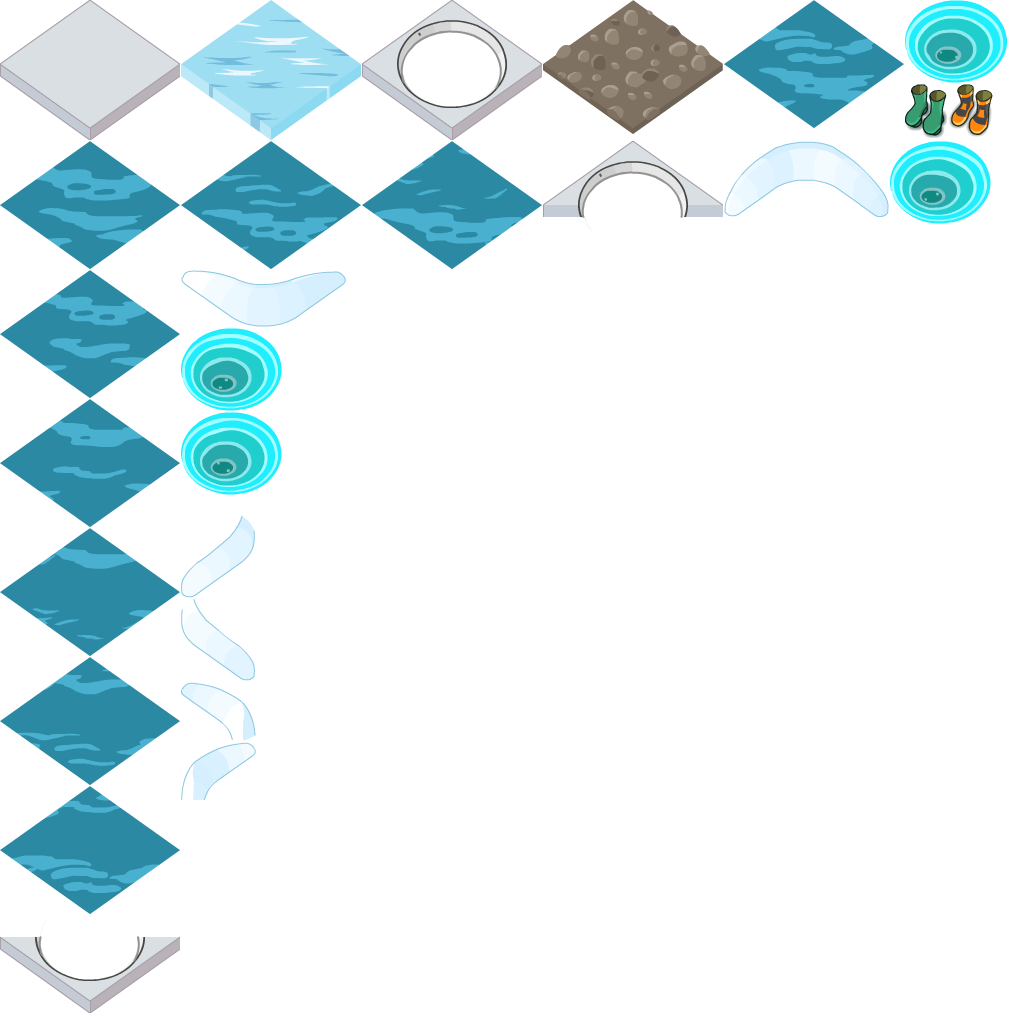
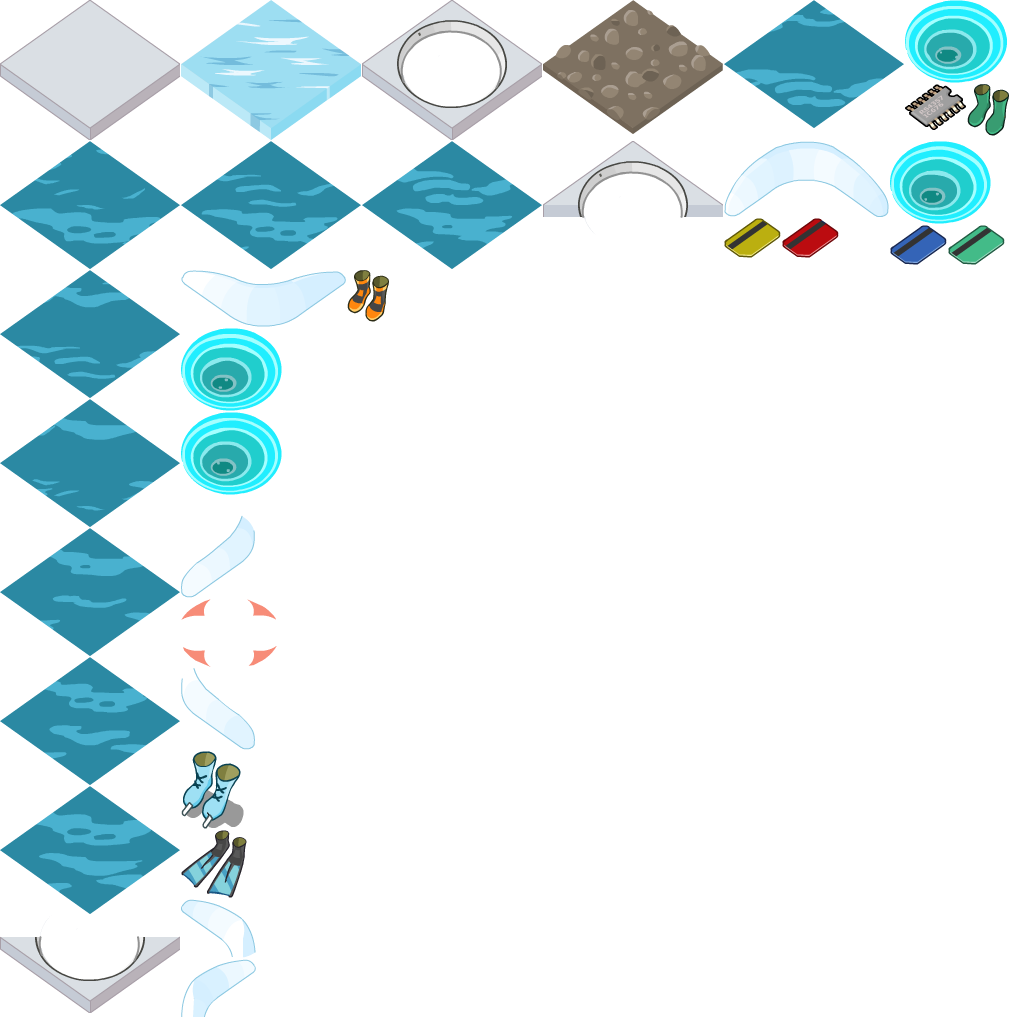
Items: new animation and highlight.

diff --git a/Classes/Level/Item.cpp b/Classes/Level/Item.cpp
@@ -18,9 +18,28 @@ Item::Item(const cocos2d::Vec2& coordinate, TileType type)
     _coordinate = coordinate;
     _type = type;
     _picked = false;
+
     _sprite = cocos2d::Sprite::createWithSpriteFrameName(_getSpriteFrameName());
     _sprite->setAnchorPoint(cocos2d::Vec2::ZERO);
     _sprite->retain();
+
+	_highlight = cocos2d::Sprite::createWithSpriteFrameName("highlight.png");
+	_highlight->setAnchorPoint(cocos2d::Vec2(0.5f, 0.5f));
+	_highlight->setPosition((cocos2d::Vec2(_sprite->getContentSize()) - cocos2d::Vec2(0, 12)) * 0.5f);
+	_highlight->setLocalZOrder(-1);
+	_highlight->runAction(cocos2d::RepeatForever::create(
+		cocos2d::Sequence::create(
+			cocos2d::ScaleTo::create(0.65f, 0.75f),
+			cocos2d::ScaleTo::create(0.65f, 1.0f),
+			nullptr
+		)
+	));
+	_sprite->addChild(_highlight);
+}
+
+Item::~Item()
+{
+	_sprite->release();
 }
 
 cocos2d::Vec2 Item::getCoordinate() const
@@ -61,27 +80,36 @@ void Item::pick(Creature* creature)
     if (!_picked)
     {
         _picked = true;
-        
+
+		_sprite->setVisible(false);
+		_highlight->stopAllActions();
+
         if (creature->getType() == CreatureType::CHIP)
         {
             _level->getInventory()->addItem(_type, 1);
         }
         
-        _sprite->setPosition(_sprite->getPosition() + cocos2d::Vec2(0.5f * _sprite->getContentSize().width, 128));
-        _sprite->setAnchorPoint(cocos2d::Vec2(0.5f, 0.5f));
-        _sprite->setOpacity(128);
-        _sprite->setLocalZOrder(_level->getProjector()->coordinateToZOrder(_coordinate) * Level::Z_ORDER_PER_TILE + Level::WALL_Z_ORDER);
-        
-        auto duration = 1.2f * _level->getTurnDuration();
+		auto bonusSprite = cocos2d::Sprite::createWithSpriteFrameName(_getSpriteFrameName());
+		bonusSprite->setPosition(_sprite->getPosition() + cocos2d::Vec2(0.5f * _sprite->getContentSize().width, 128));
+		bonusSprite->setAnchorPoint(cocos2d::Vec2(0.5f, 0.5f));
+		bonusSprite->setOpacity(192);
+		bonusSprite->setLocalZOrder(_level->getProjector()->coordinateToZOrder(_coordinate) * Level::Z_ORDER_PER_TILE + Level::WALL_Z_ORDER);
+		_level->getStage()->addChild(bonusSprite);
 
-        auto flyAction = cocos2d::MoveBy::create(duration, cocos2d::Vec2(0, 44));
-        auto fadeOutAction = cocos2d::FadeTo::create(duration, 0);
-        auto scaleAction = cocos2d::ScaleTo::create(duration, 1.5f);
-        auto spawnAction = cocos2d::Spawn::create(flyAction, scaleAction, fadeOutAction, nullptr);
-        auto callbackAction = cocos2d::CallFunc::create([this](){
-            _sprite->setVisible(false);
-        });
-        _sprite->runAction(cocos2d::Sequence::createWithTwoActions(spawnAction, callbackAction));
+        auto duration = 1.2f * _level->getTurnDuration();
+		bonusSprite->runAction(cocos2d::Sequence::create(
+			cocos2d::Spawn::create(
+				cocos2d::MoveBy::create(duration, cocos2d::Vec2(0, 44)),
+				cocos2d::FadeTo::create(duration, 0),
+				cocos2d::ScaleTo::create(duration, 1.5f),
+				cocos2d::RotateBy::create(duration, 180.0f),
+				nullptr
+			),
+			cocos2d::CallFunc::create([bonusSprite](){
+				bonusSprite->removeFromParent();
+			}),
+			nullptr
+		));
     }
 }
 
@@ -89,7 +117,37 @@ std::string& Item::_getSpriteFrameName() const
 {
     static std::string names[] =
     {
-        "boots-fire.png"
+        "boots-water.png",
+		"boots-fire.png",
+		"boots-slide.png",
+		"boots-ice.png",
+		"ic-chip.png",
+		"key-blue.png",
+		"key-red.png",
+		"key-green.png",
+		"key-yellow.png"
     };
-    return names[0];
+	switch (_type)
+	{
+	case TileType::BOOTS_WATER:
+		return names[0];
+	case TileType::BOOTS_FIRE:
+		return names[1];
+	case TileType::BOOTS_SLIDE:
+		return names[2];
+	case TileType::BOOTS_ICE:
+		return names[3];
+	case TileType::IC_CHIP:
+		return names[4];
+	case TileType::KEY_BLUE:
+		return names[5];
+	case TileType::KEY_RED:
+		return names[6];
+	case TileType::KEY_GREEN:
+		return names[7];
+	case TileType::KEY_YELLOW:
+		return names[8];
+	default:
+		return names[0];
+	}
 }

diff --git a/Classes/Level/Item.h b/Classes/Level/Item.h
@@ -13,6 +13,7 @@ private:
 	Level* _level;
     TileType _type;
     cocos2d::Sprite* _sprite;
+	cocos2d::Sprite* _highlight;
     cocos2d::Vec2 _coordinate;
     bool _picked;
     
@@ -20,6 +21,7 @@ public:
     static Item* create(const cocos2d::Vec2& coordinate, TileType type);
     
     Item(const cocos2d::Vec2& coordinate, TileType type);
+	~Item();
     cocos2d::Vec2 getCoordinate() const;
     Level* getLevel() const;
     void setLevel(Level* level);

diff --git a/Classes/Tiled/TiledProjector.h b/Classes/Tiled/TiledProjector.h
@@ -23,6 +23,7 @@ public:
     TiledProjector(const cocos2d::Size& tileSize, const cocos2d::Size& mapSize, TiledPhysicsWorld* physicsWorld);
     ~TiledProjector();
     cocos2d::Size getMapSize() const;
+	cocos2d::Size getTileSize() const;
     void clear();
     cocos2d::Vec2 coordinateToPoint(const cocos2d::Vec2& coordinate);
     int coordinateToZOrder(const cocos2d::Vec2& coordinate);

diff --git a/Classes/Views/PacksScene.cpp b/Classes/Views/PacksScene.cpp
@@ -61,7 +61,7 @@ void PacksScene::_build()
         {
             if (type == cocos2d::ui::Widget::TouchEventType::ENDED)
             {
-                cocos2d::Director::getInstance()->pushScene(LevelScene::create(_game, 0, 26));
+                cocos2d::Director::getInstance()->pushScene(LevelScene::create(_game, 0, 0));
             }
         });
         x += buttonWidth;

diff --git a/Classes/Tiled/TiledProjector.cpp b/Classes/Tiled/TiledProjector.cpp
@@ -37,6 +37,11 @@ cocos2d::Size TiledProjector::getMapSize() const
     return _mapSize;
 }
 
+cocos2d::Size TiledProjector::getTileSize() const
+{
+	return _tileSize;
+}
+
 void TiledProjector::clear()
 {
     std::fill(_zOrderMap.begin(), _zOrderMap.end(), UNKNOWN_DEPTH);
